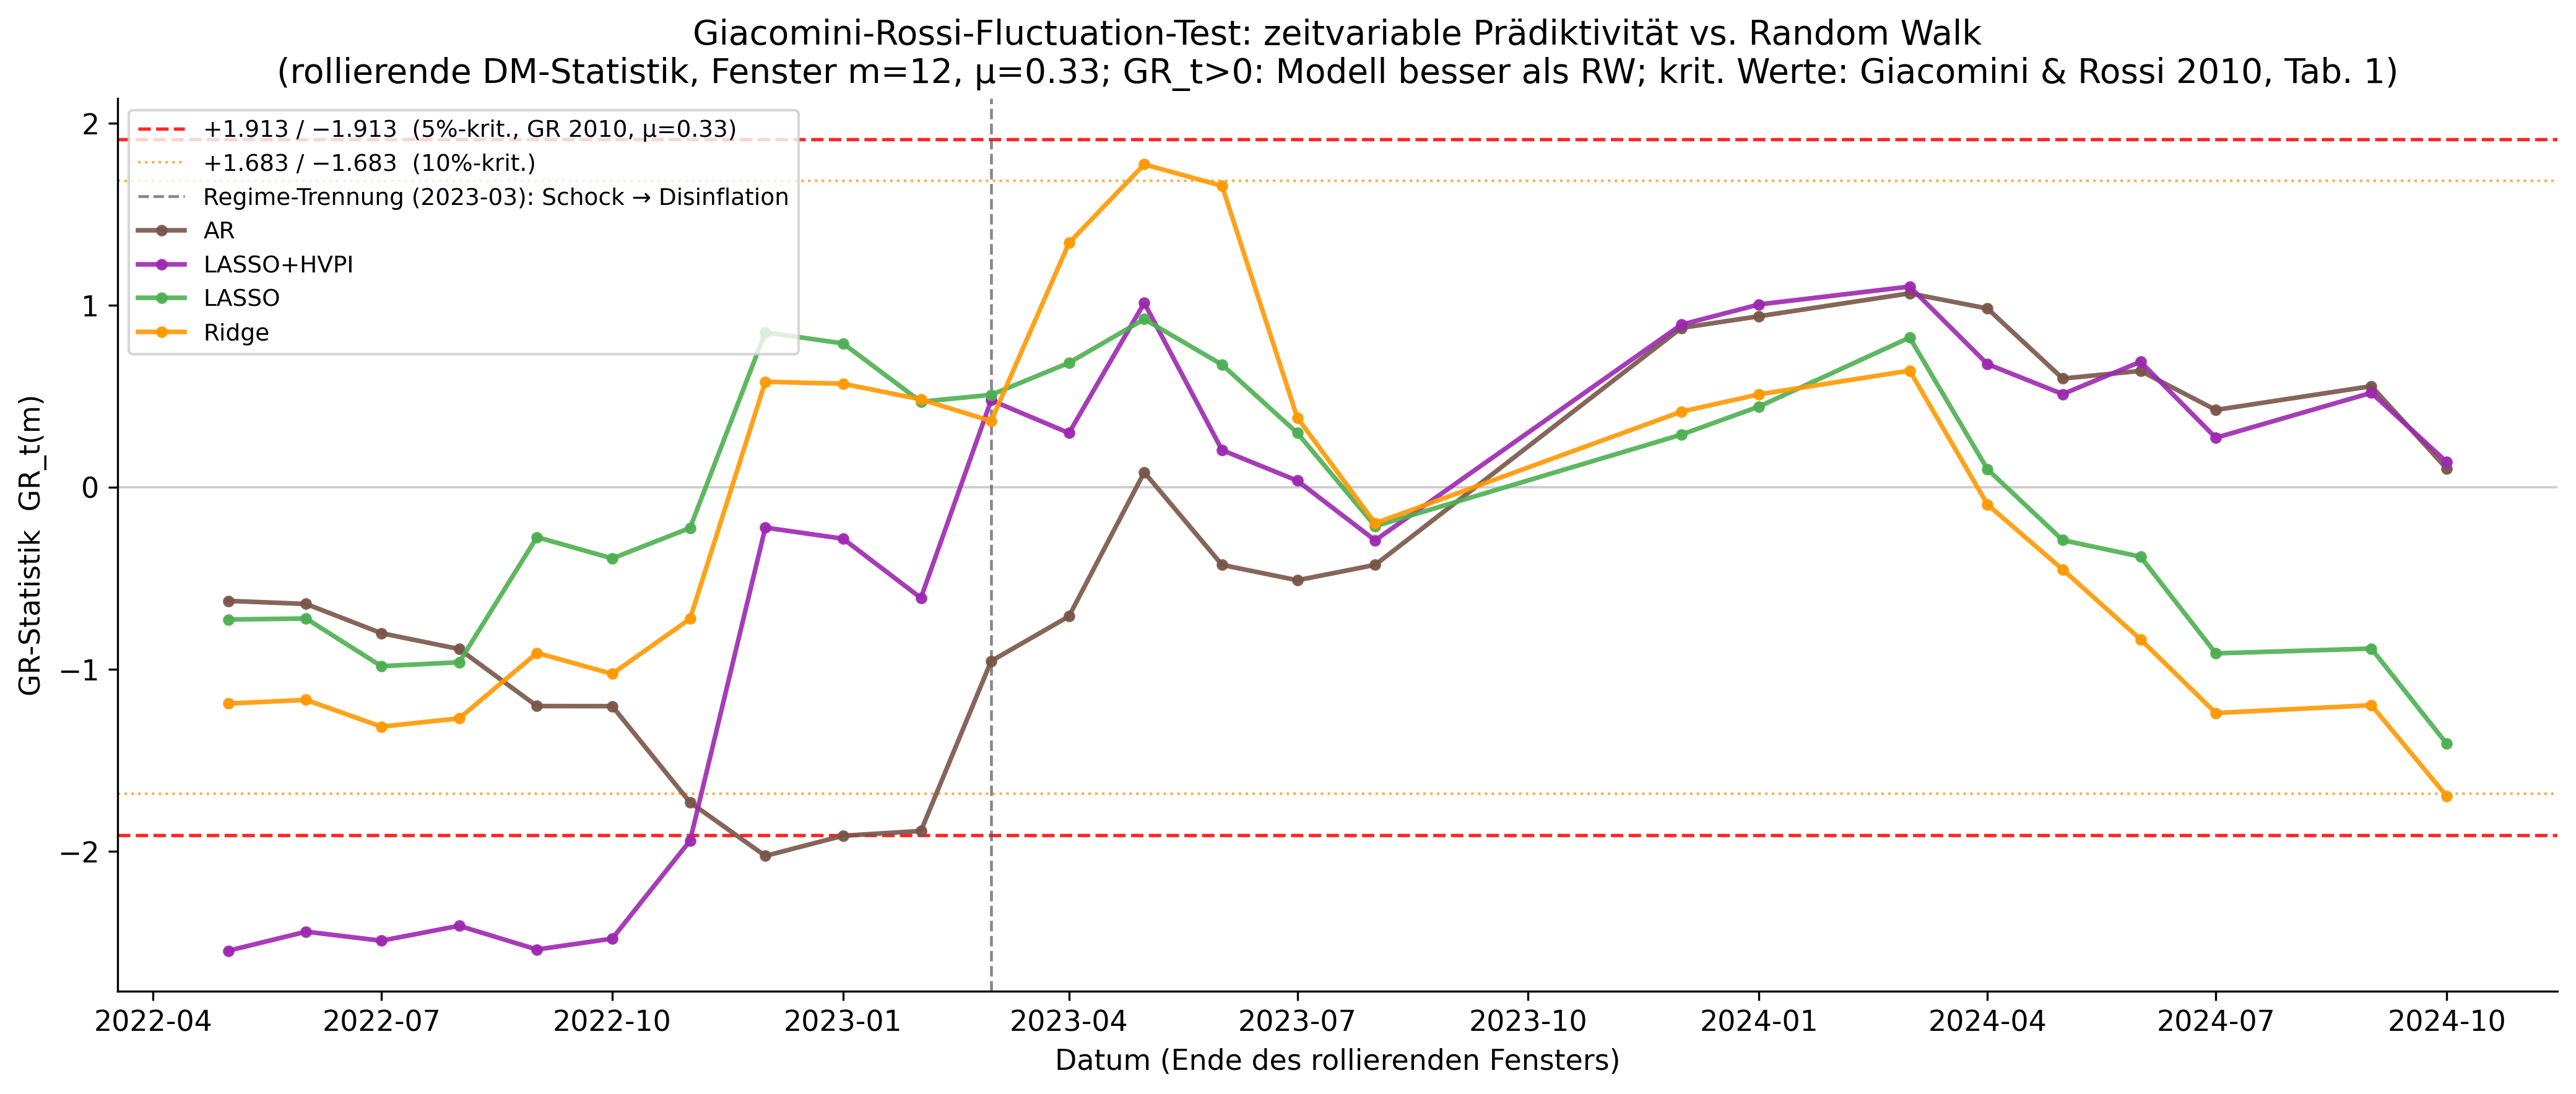
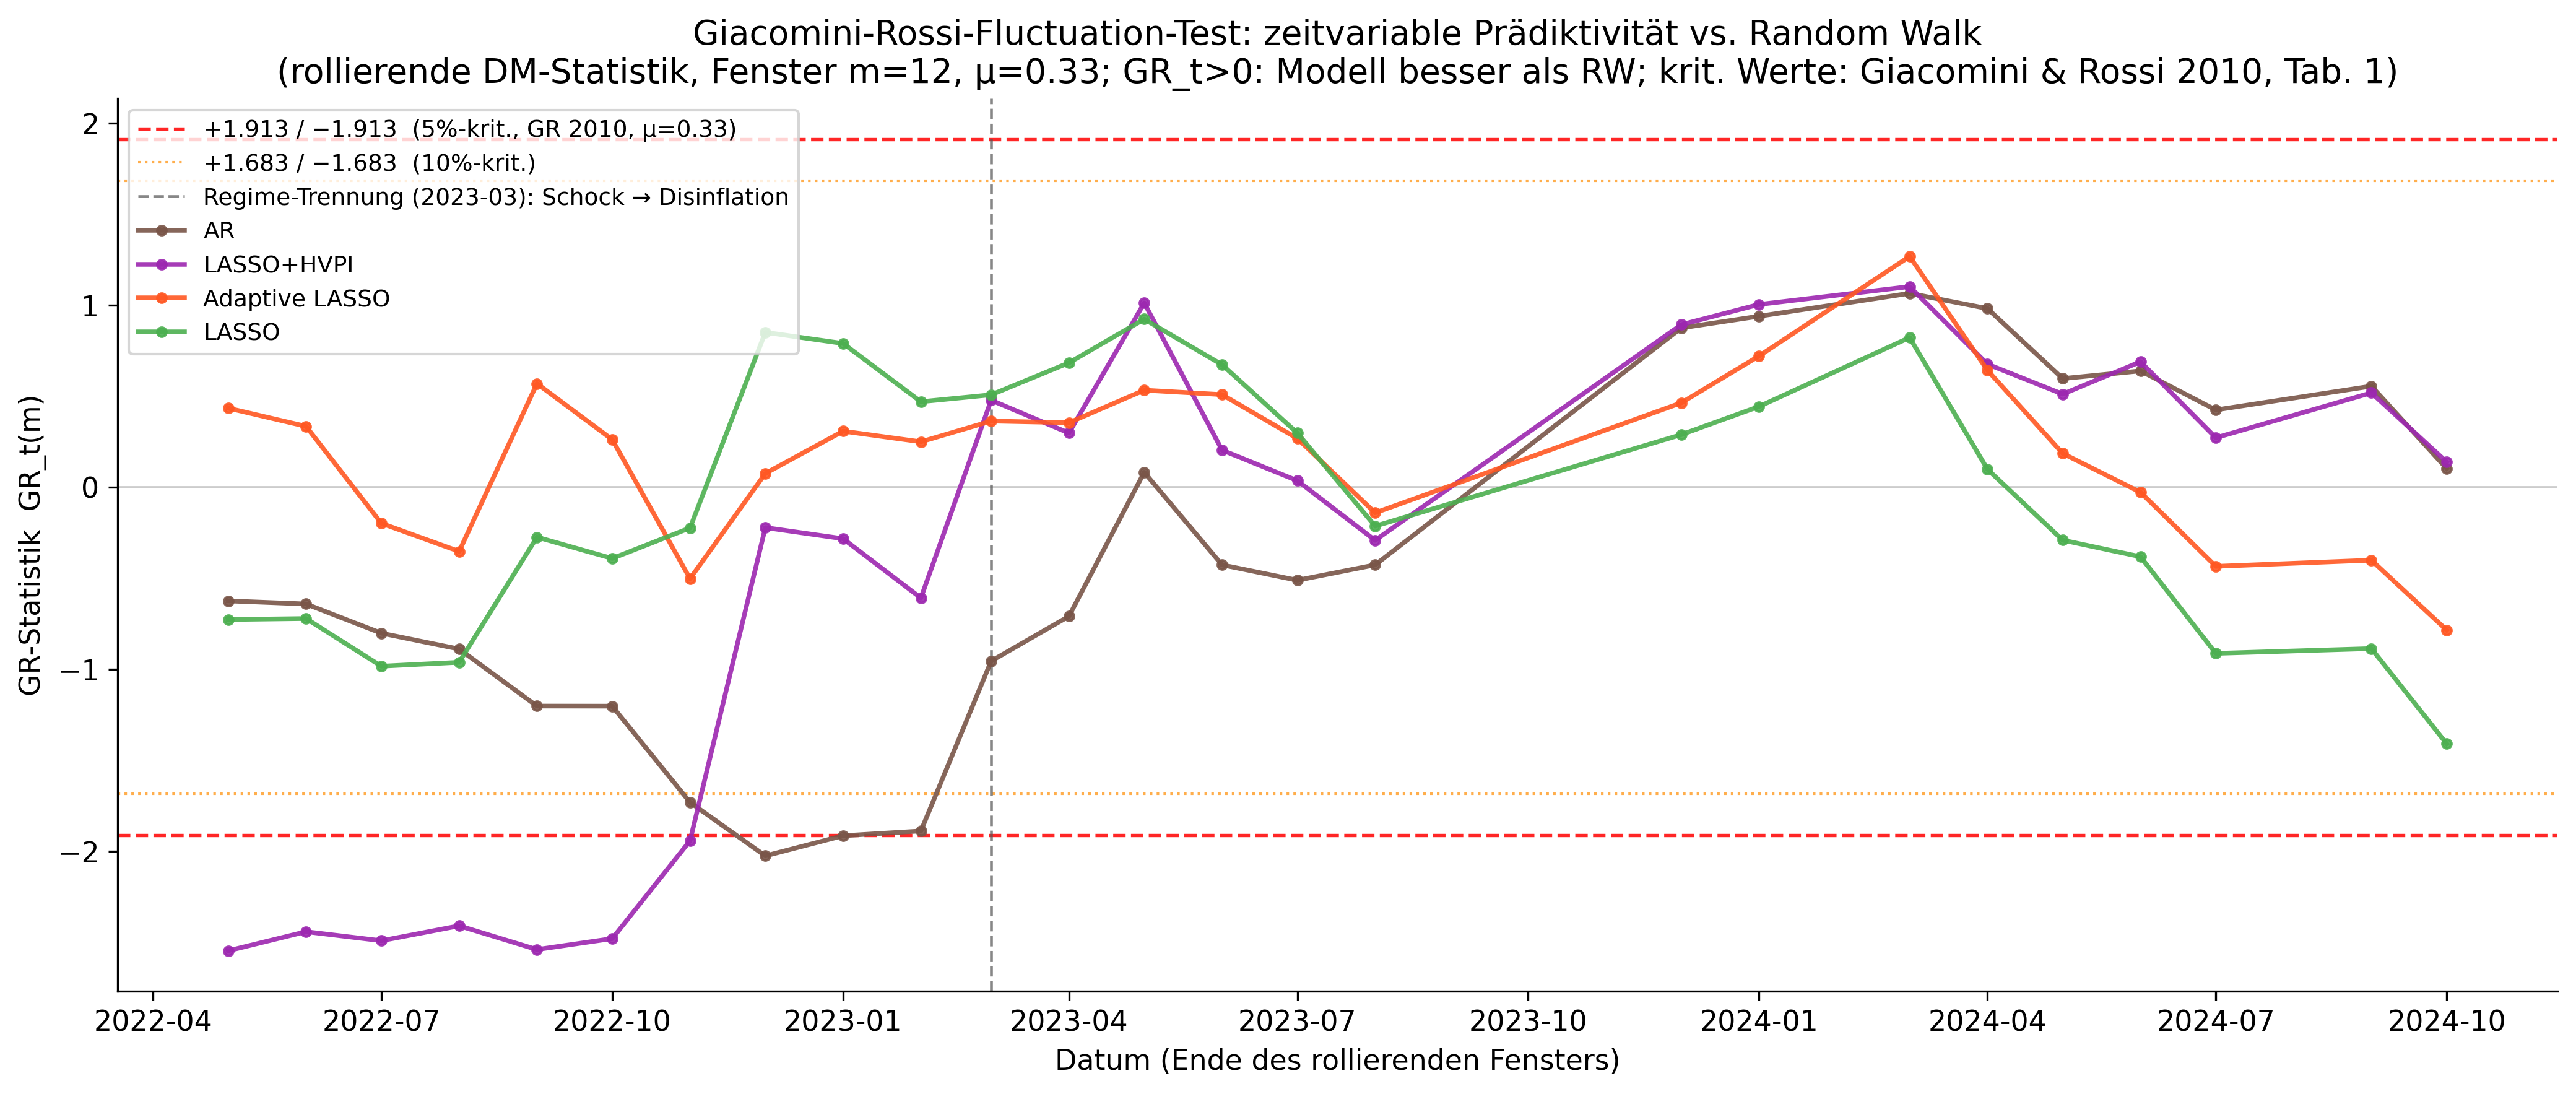
New Run with Adaptive RO

diff --git a/src/evaluation.py b/src/evaluation.py
@@ -267,6 +267,7 @@ def compute_compare_oos(oos_ctx, adap_ctx, y_oos_ref):
 
     rw_rmse_ref = oos_ctx["oos_rmse"]["RW"]
     adap_rmse = {}
+    rows = []
     print("\nRolling-Origin RMSE: festes λ vs. adaptives λ je Origin")
     print(f"{'Modell':<25} {'RMSE':>7}  {'RMSE/RW':>8}")
     print("-" * 45)
@@ -275,10 +276,22 @@ def compute_compare_oos(oos_ctx, adap_ctx, y_oos_ref):
         a    = y_oos_ref.loc[p.index]
         rmse = np.sqrt(mean_squared_error(a, p))
         adap_rmse[col] = rmse
-        marker = " ◀ adapt." if "(adapt.)" in col else ""
+        is_adap = "(adapt.)" in col
+        marker = " ◀ adapt." if is_adap else ""
         print(f"  {col:<23} {rmse:>7.4f}  {rmse/rw_rmse_ref:>8.4f}{marker}")
+        rows.append({
+            "Modell":   col,
+            "lambda":   "adaptiv" if is_adap else "fest",
+            "RMSE":     round(rmse, 4),
+            "RMSE/RW":  round(rmse / rw_rmse_ref, 4),
+        })
 
-    return dict(compare_oos=compare_oos, adap_rmse=adap_rmse)
+    df_compare = pd.DataFrame(rows)
+    df_compare.to_csv("results/compare_oos_table.csv", index=False)
+    print("\nVergleichstabelle gespeichert: results/compare_oos_table.csv")
+
+    return dict(compare_oos=compare_oos, adap_rmse=adap_rmse,
+                df_compare=df_compare)
 
 
 # ── Regime-Analyse (Schock vs. Disinflation) ─────────────────────────────────